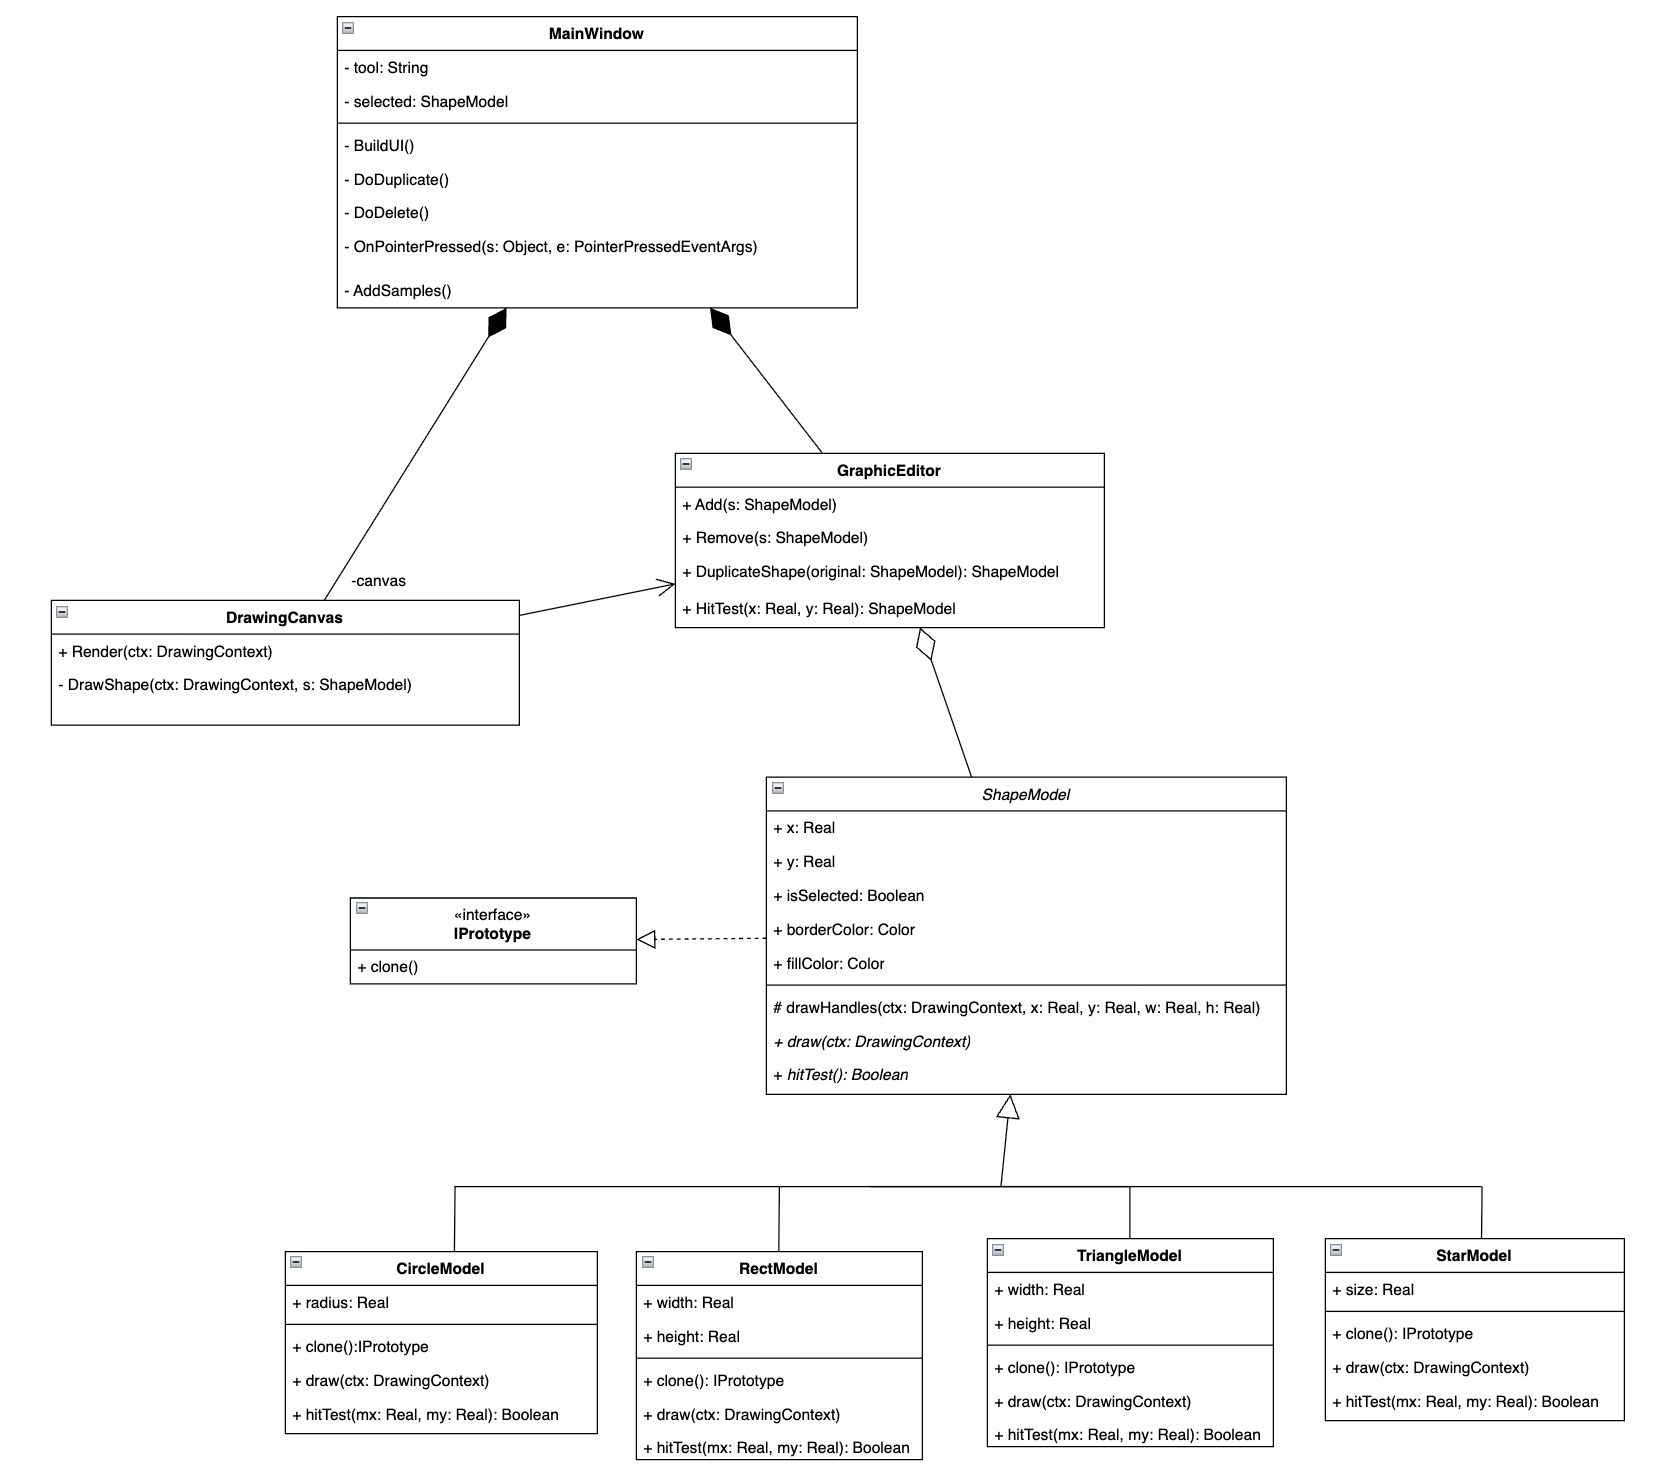
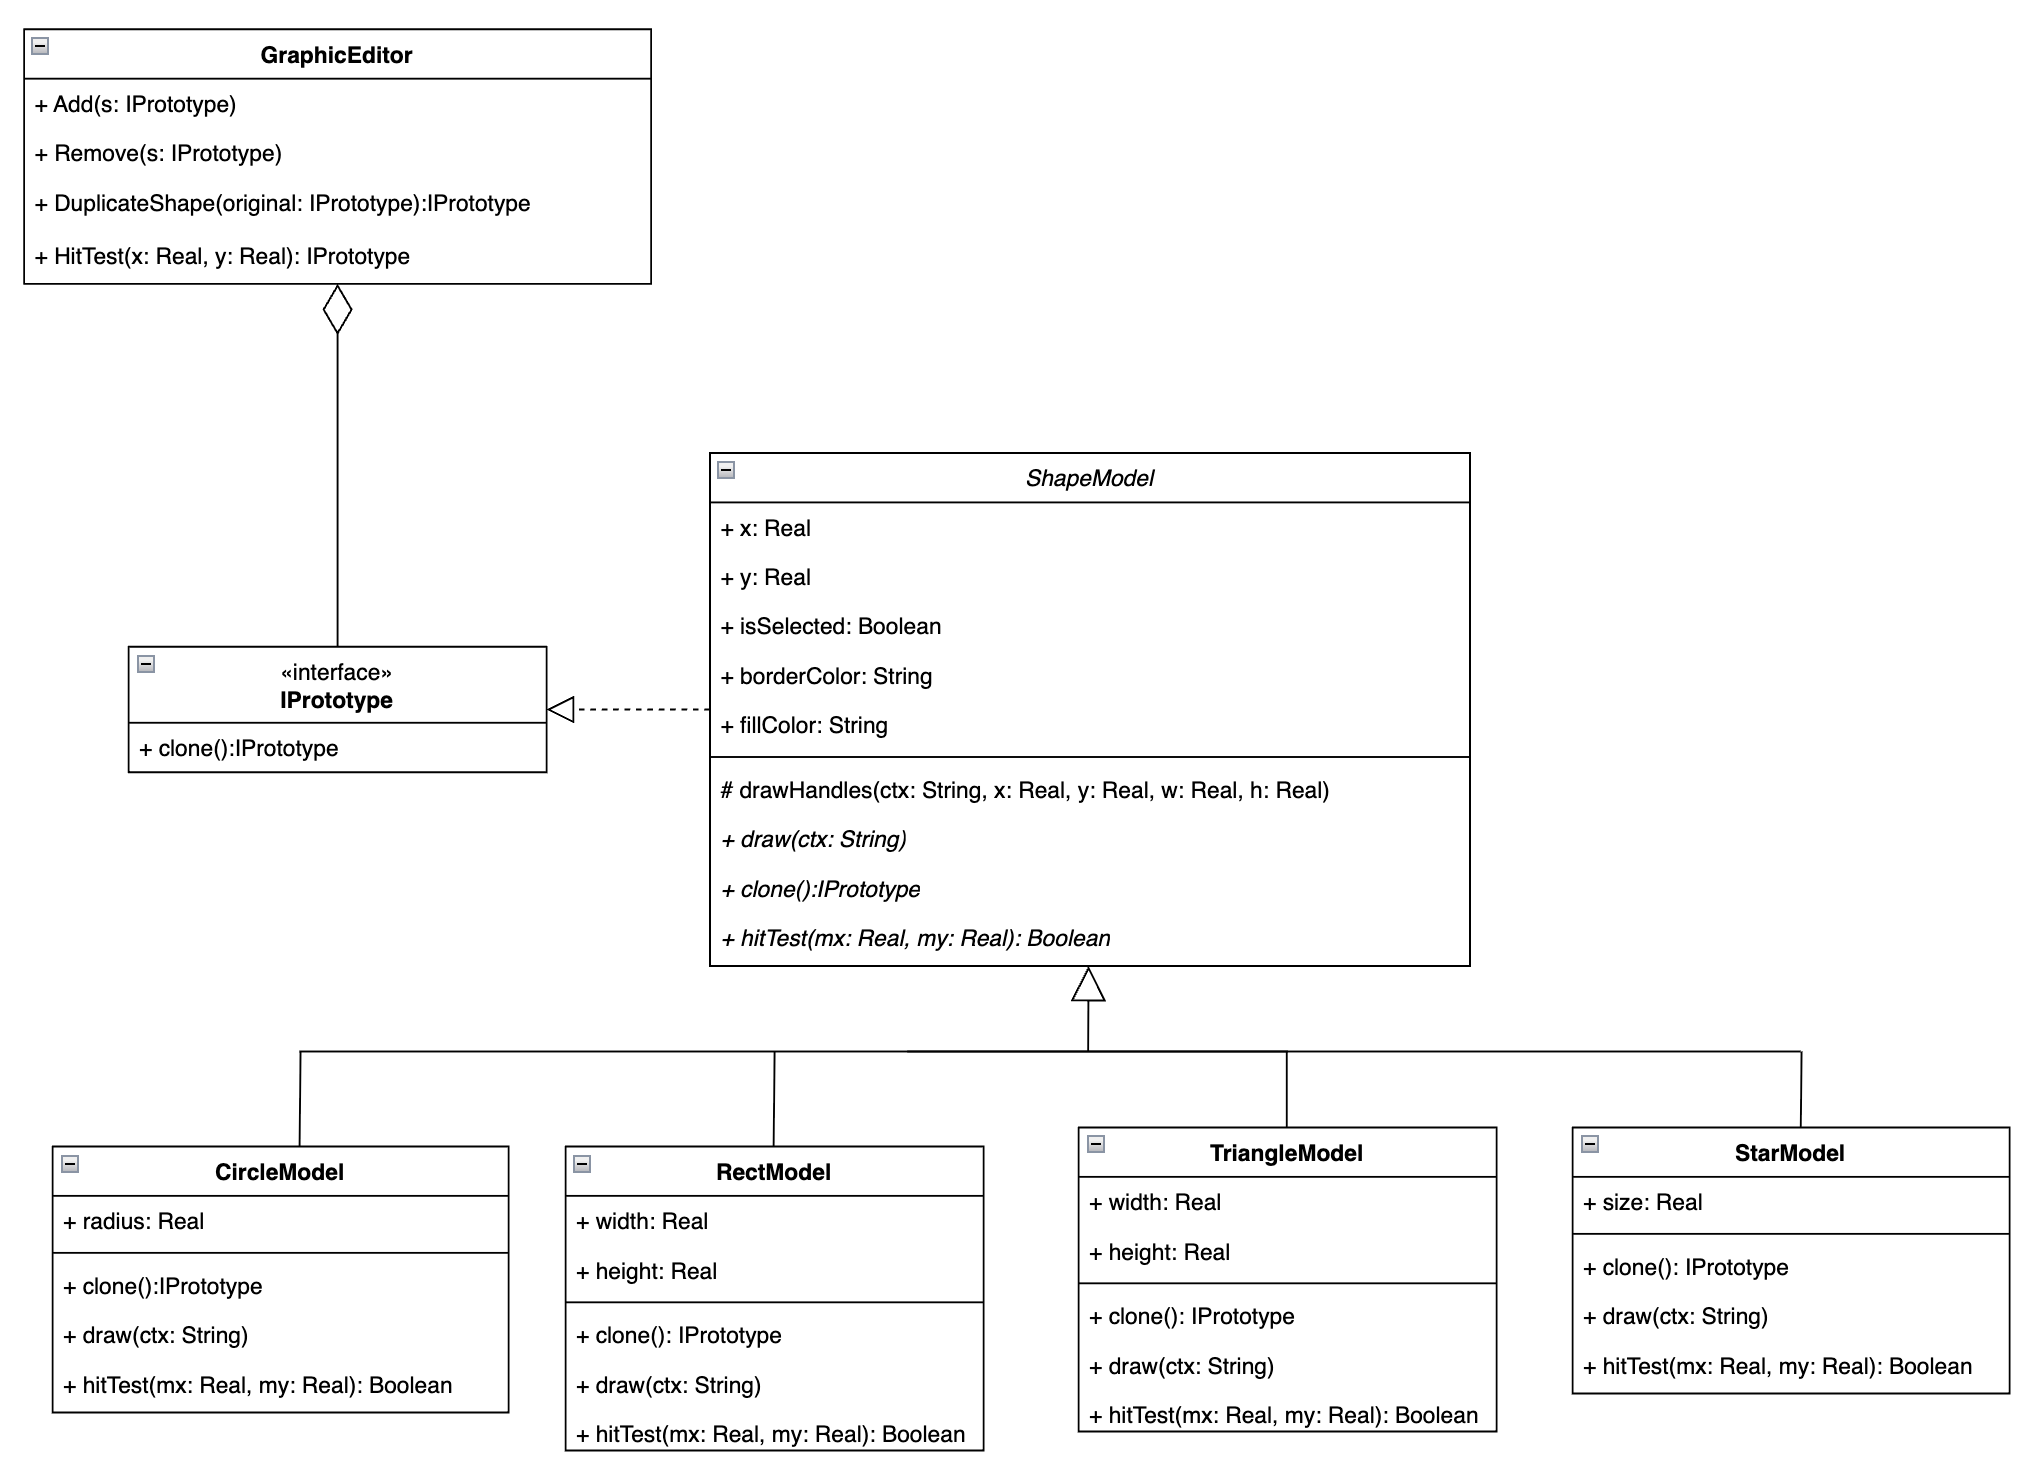
fixes

diff --git a/lab01/WithPattern/obj/Debug/net10.0/WithPattern.AssemblyInfo.cs b/lab01/WithPattern/obj/Debug/net10.0/WithPattern.AssemblyInfo.cs
@@ -13,7 +13,7 @@ using System.Reflection;
 [assembly: System.Reflection.AssemblyCompanyAttribute("WithPattern")]
 [assembly: System.Reflection.AssemblyConfigurationAttribute("Debug")]
 [assembly: System.Reflection.AssemblyFileVersionAttribute("1.0.0.0")]
-[assembly: System.Reflection.AssemblyInformationalVersionAttribute("1.0.0+85dbb50f9986a0c27b2f8ed660405a4f5625ee35")]
+[assembly: System.Reflection.AssemblyInformationalVersionAttribute("1.0.0+014d3bd2d9514a158c24f324c291ff21cf994fbc")]
 [assembly: System.Reflection.AssemblyProductAttribute("WithPattern")]
 [assembly: System.Reflection.AssemblyTitleAttribute("WithPattern")]
 [assembly: System.Reflection.AssemblyVersionAttribute("1.0.0.0")]
